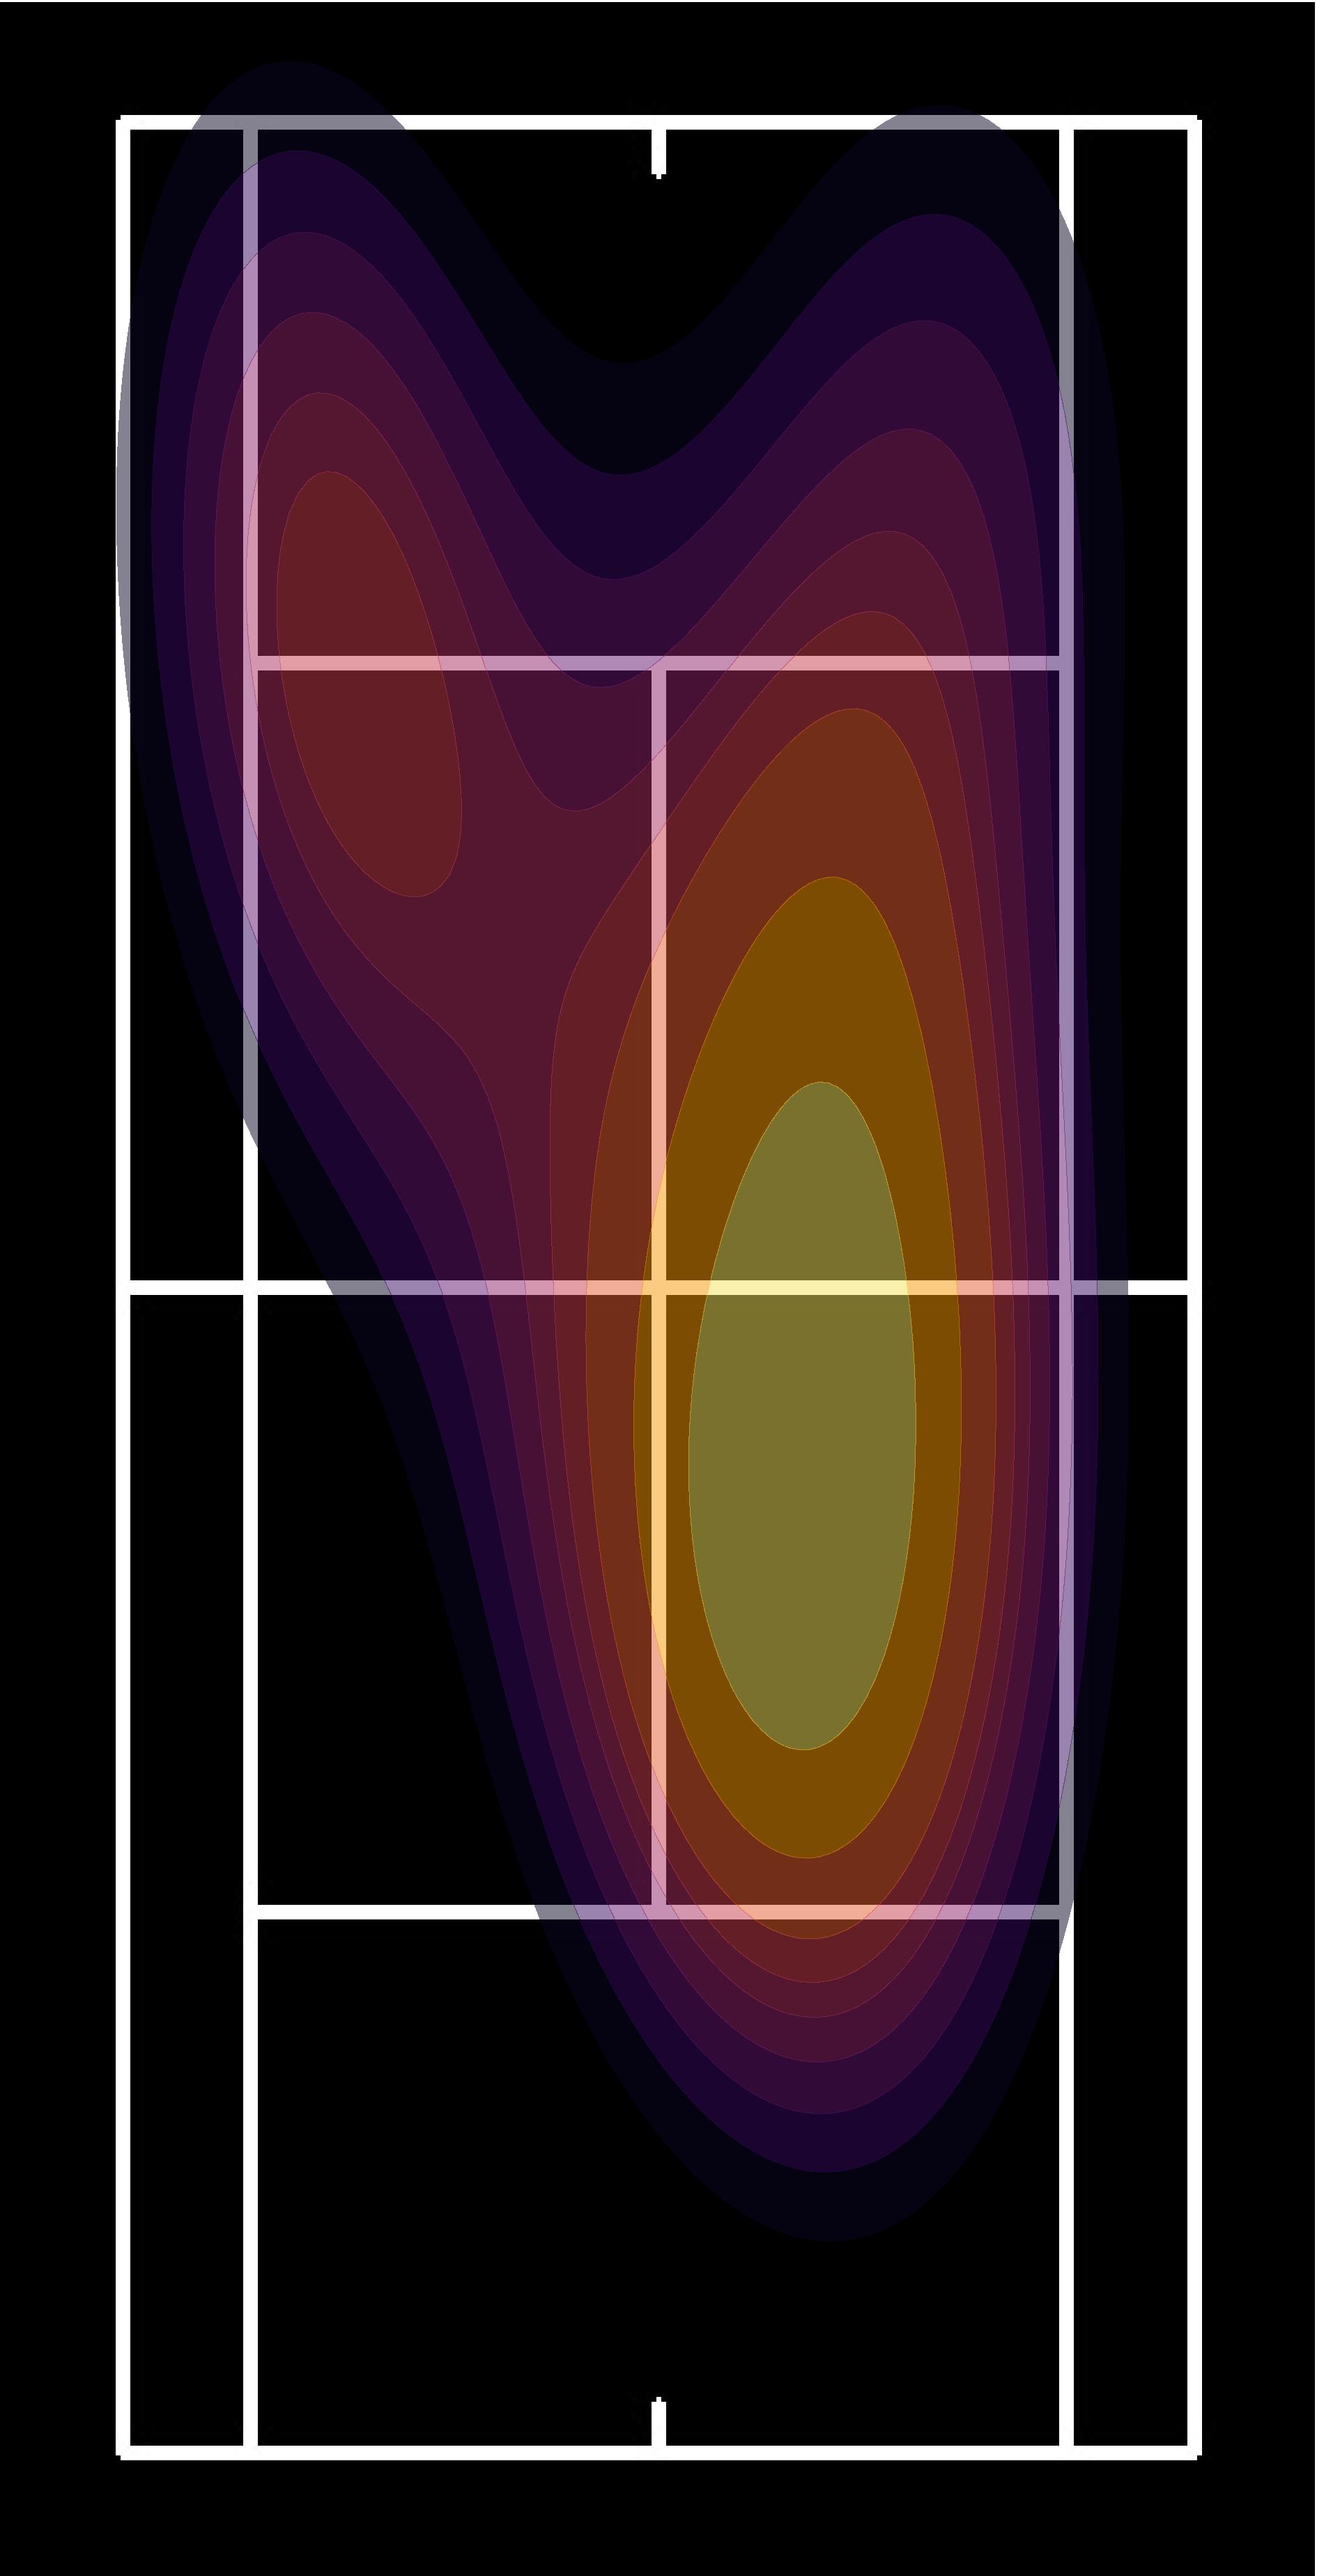
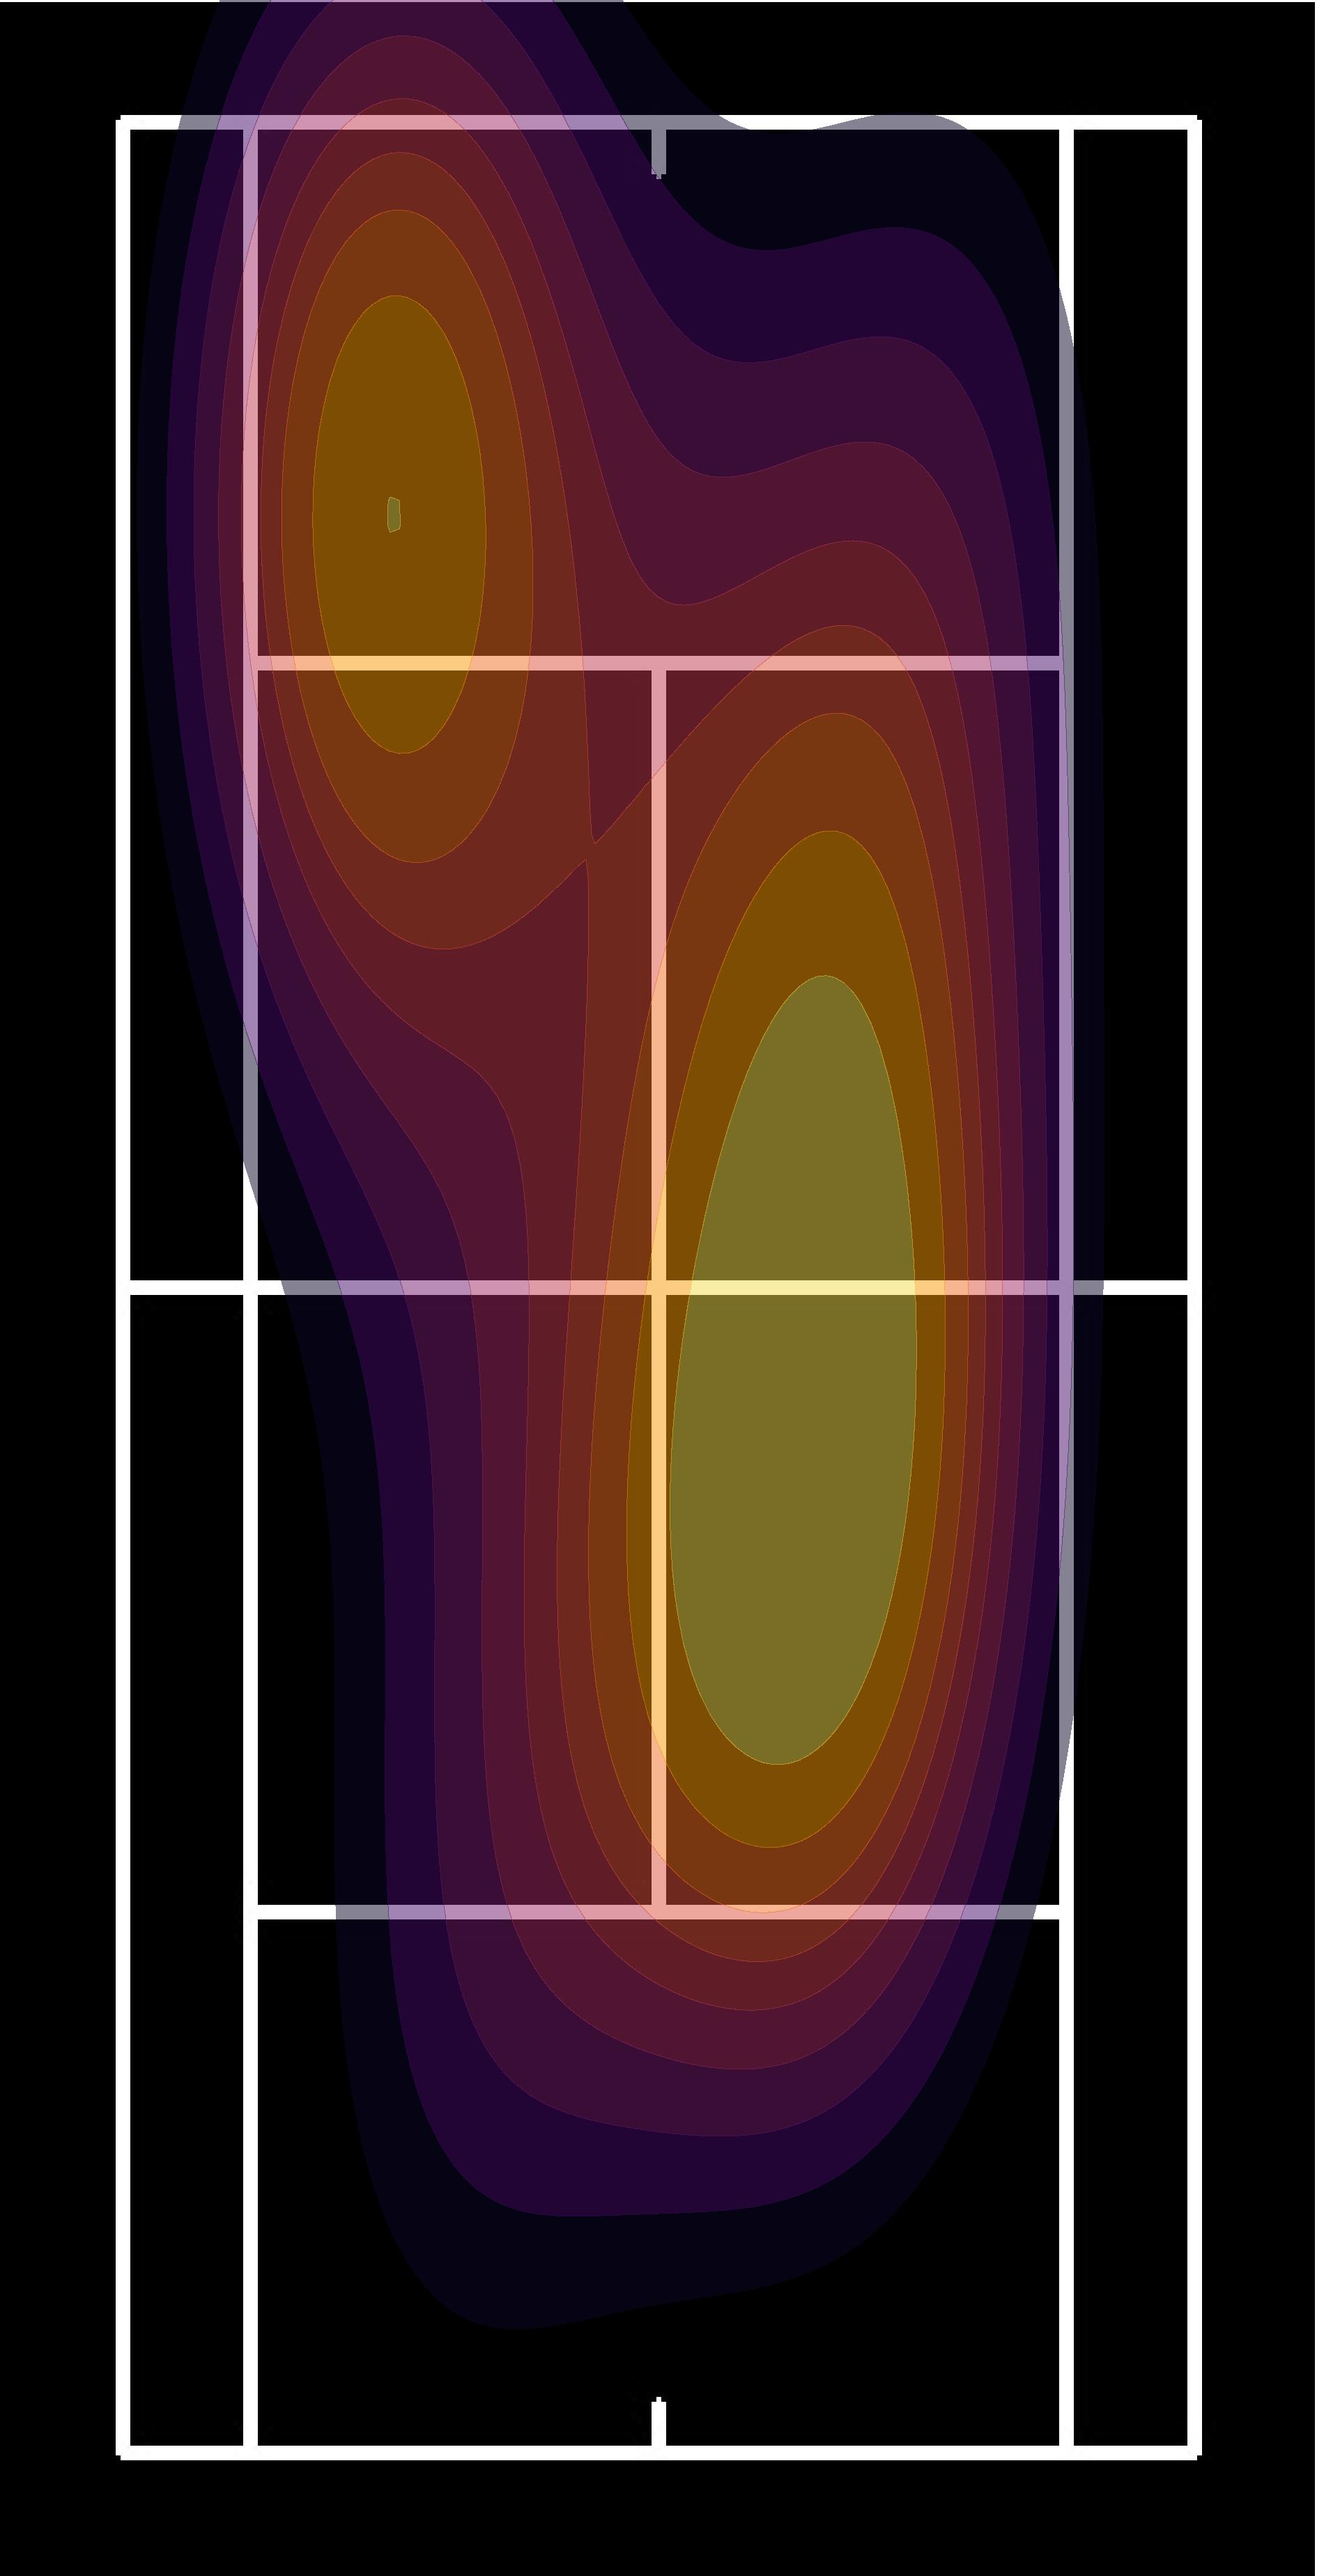
Ran some tests

diff --git a/Bounce_Detection/heatmap.py b/Bounce_Detection/heatmap.py
@@ -10,7 +10,7 @@ plt.imshow(cancha)
 plt.axis('off')
 
 # Recibe los puntos de pique
-pts = [[10, 100], [20, 200], [110, 200], [150, 100], [80, 350], [140, 300], [120, 400]]
+pts = [[10, 100], [20, 200], [110, 200], [150, 100], [80, 350], [140, 300], [120, 400], [50, 70], [35, 450]]
 ptX = []
 ptY = []
 
@@ -35,6 +35,5 @@ kde = sns.kdeplot(
 
 plt.xlim(0, 268); plt.ylim(0, 524)
 
+# Guarda el heatmap
 plt.savefig("heatmap.jpg",dpi = 1000, bbox_inches = 'tight', pad_inches = 0)
-
-plt.show()
